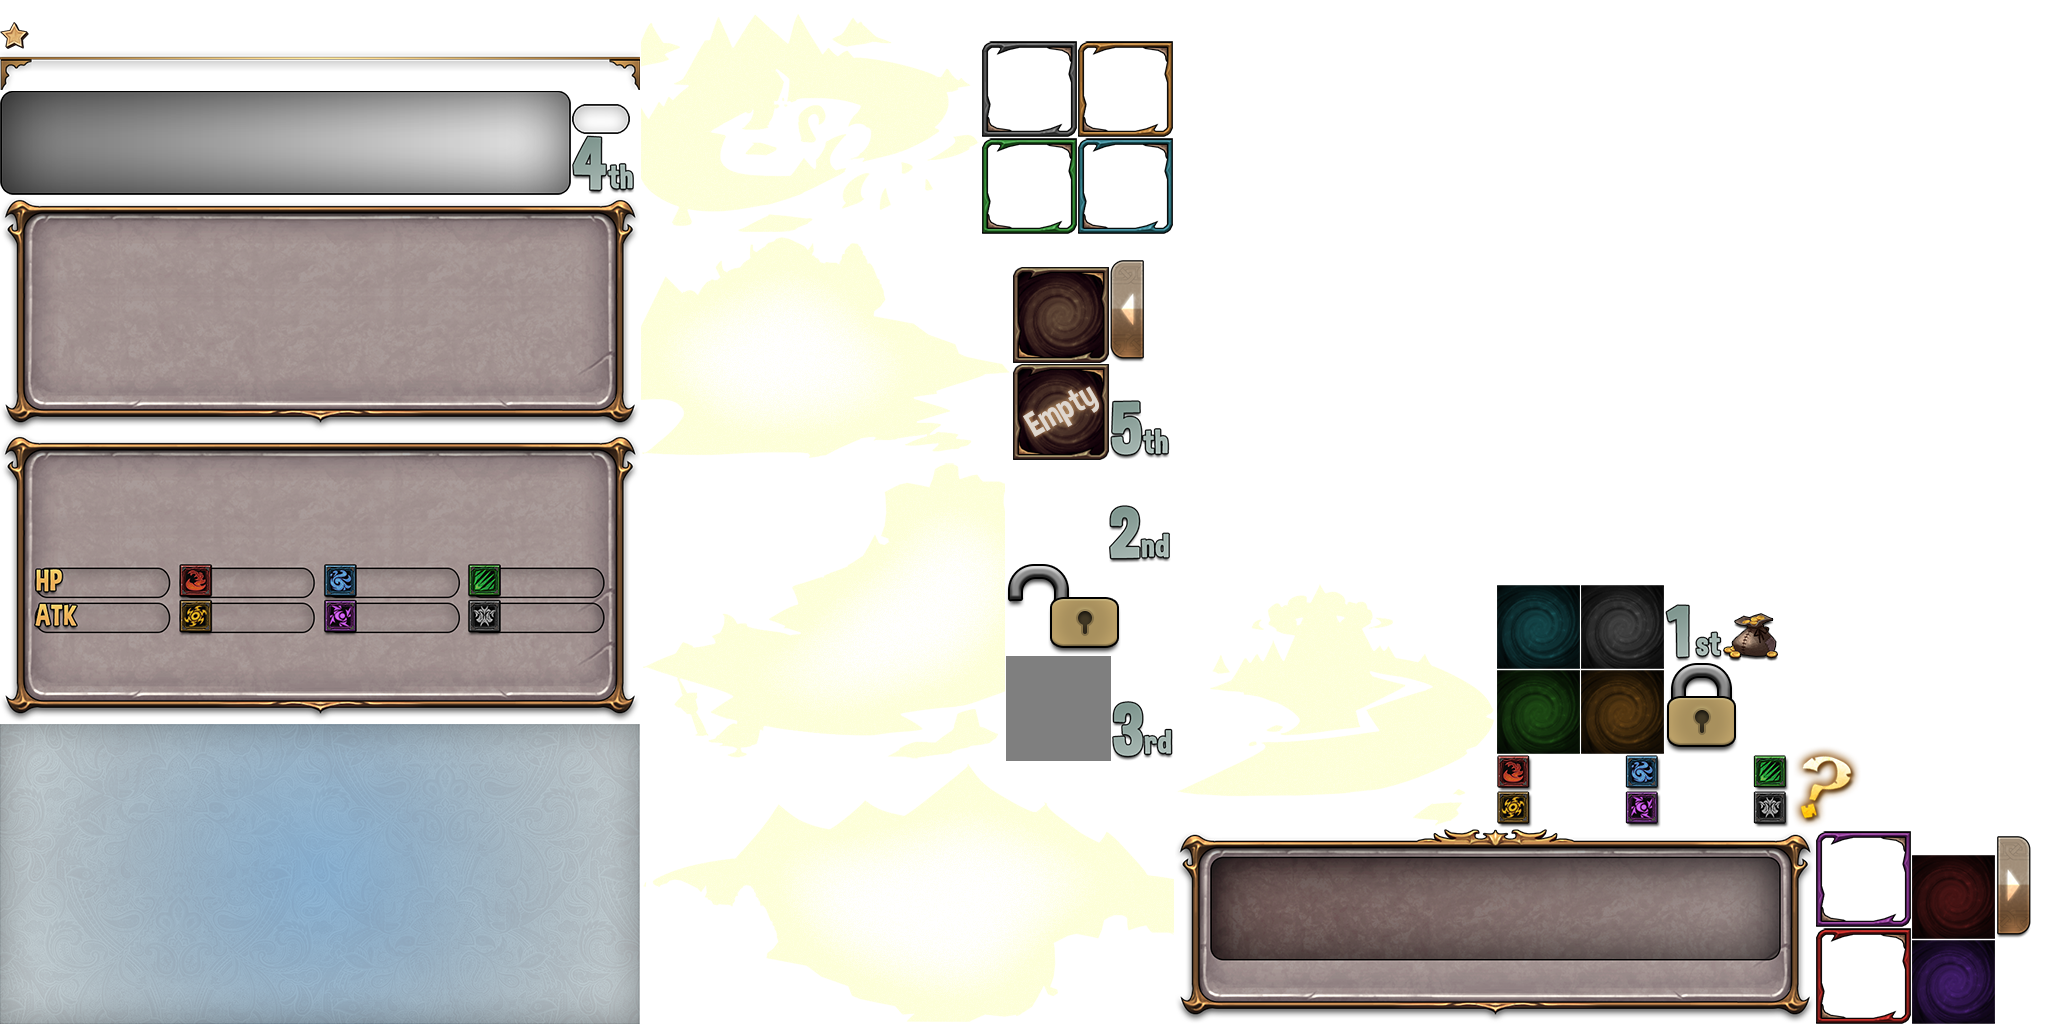
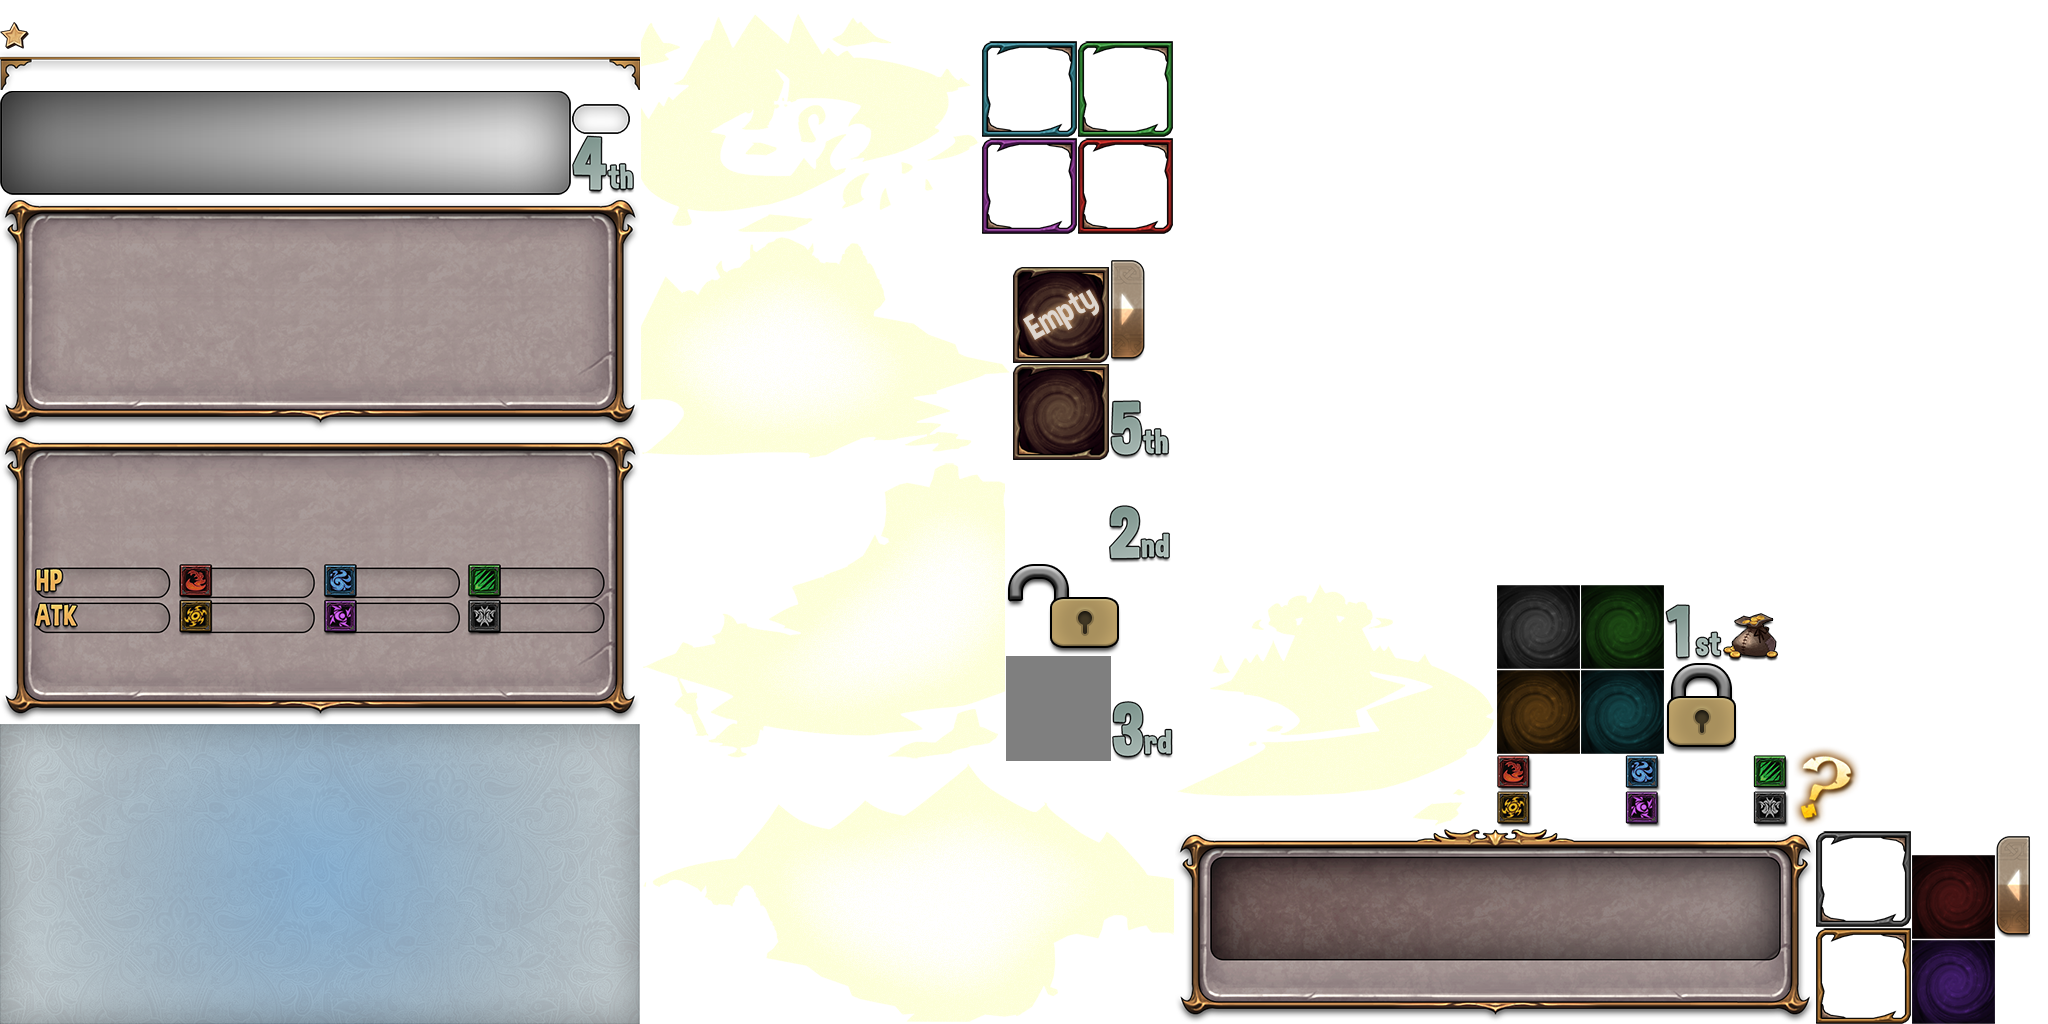
bug fix

diff --git a/Assets/_Scripts/View/UI/UnitView/CatalogUnitItem.cs b/Assets/_Scripts/View/UI/UnitView/CatalogUnitItem.cs
@@ -15,6 +15,9 @@ public class CatalogUnitItem : MyUnitItem {
 	private UISprite translucentMaskSpr;
 	private UILabel idLabel;
 	public UIWidget widget;
+
+	private UISprite type;
+	private UISprite bg;
 	
 	/// <summary>
 	/// The earliest execute
@@ -36,6 +39,8 @@ public class CatalogUnitItem : MyUnitItem {
 		maskSpr = maskSprite;
 		//translucentMaskSpr = transform.FindChild("Sprite_Translucent").GetComponent<UISprite>();
 		idLabel = transform.FindChild("Label_ID").GetComponent<UILabel>();
+		type = transform.FindChild ("Sprite_Type").GetComponent<UISprite> ();
+		bg = transform.FindChild ("Background").GetComponent<UISprite> ();
 	}
 
 	protected override void RefreshState(){
@@ -105,6 +110,8 @@ public class CatalogUnitItem : MyUnitItem {
 					//translucentMaskSpr.enabled = false;
 					UIEventListenerCustom.Get(this.gameObject).LongPress = PressItem;
 					UIEventListenerCustom.Get(this.gameObject).onClick = PressItem;
+					type.spriteName = GetBorderSpriteName();
+					bg.spriteName = GetAvatarBgSpriteName();
 					break;
 				case CatalogState.Meet : 
 //					avatarSprite.atlas = DataCenter.Instance.GetAvatarAtlas(catalogUserUnit.UnitID);
@@ -113,6 +120,8 @@ public class CatalogUnitItem : MyUnitItem {
 					maskSprite.enabled = true;
 					erotemeSpr.enabled = false;
 					//translucentMaskSpr.enabled = true;
+					type.spriteName = "avatar_border_none";
+					bg.spriteName = "avatar_bg_none";
 					break;
 				case CatalogState.UnKnown : 
 					avatarSprite.atlas = null;
@@ -120,6 +129,8 @@ public class CatalogUnitItem : MyUnitItem {
 					erotemeSpr.enabled = true;
 					maskSprite.enabled = false;
 					//translucentMaskSpr.enabled = false;
+					type.spriteName = "avatar_border_none";
+					bg.spriteName = "avatar_bg_none";
 					break;
 				default:
 					avatarSprite.atlas = null;
@@ -142,6 +153,46 @@ public class CatalogUnitItem : MyUnitItem {
 				itemPrefab = ResourceManager.Instance.LoadLocalAsset(sourcePath, null) as GameObject ;
 			}
 			return itemPrefab;
+		}
+	}
+
+	string GetBorderSpriteName () {
+		switch (catalogUserUnit.UnitType) {
+		case 1:
+			return "avatar_border_fire";
+		case 2:
+			return "avatar_border_water";
+		case 3:
+			return "avatar_border_wind";
+		case 4:
+			return "avatar_border_light";
+		case 5:
+			return "avatar_border_dark";
+		case 6:
+			return "avatar_border_none";
+		default:
+			return "avatar_border_none";
+			break;
+		}
+	}
+	
+	string GetAvatarBgSpriteName() {
+		switch (catalogUserUnit.UnitType) {
+		case 1:
+			return "avatar_bg_fire";
+		case 2:
+			return "avatar_bg_water";
+		case 3:
+			return "avatar_bg_wind";
+		case 4:
+			return "avatar_bg_light";
+		case 5:
+			return "avatar_bg_dark";
+		case 6:
+			return "avatar_bg_none";
+		default:
+			return "avatar_bg_none";
+			break;
 		}
 	}
 

diff --git a/Assets/_Scripts/View/UI/Quest/HomeView.cs b/Assets/_Scripts/View/UI/Quest/HomeView.cs
@@ -11,6 +11,8 @@ public class HomeView : UIComponentUnity{
 	private Dictionary< GameObject, VStageItemInfo> stageInfo = new Dictionary<GameObject, VStageItemInfo>();
 	private Dictionary<GameObject, TCityInfo> cityViewInfo = new Dictionary<GameObject, TCityInfo>();
 
+	private UISprite fog;
+
 	public override void Init(UIInsConfig config, IUICallback origin){
 		base.Init(config, origin);
 		InitUI();
@@ -90,6 +92,8 @@ public class HomeView : UIComponentUnity{
 		UIEventListenerCustom.Get (FindChild ("Icons/Reward").gameObject).onClick = ClickReward;
 		UIEventListenerCustom.Get (FindChild ("Icons/Notice").gameObject).onClick = ClickNotice;
 		UIEventListenerCustom.Get (FindChild ("Icons/Purchase").gameObject).onClick = ClickPurchase;
+
+		fog = FindChild("Fog").GetComponent<UISprite>();
 	}
 
 	void ClickReward(GameObject obj){
@@ -262,5 +266,19 @@ public class HomeView : UIComponentUnity{
 		UIManager.Instance.ChangeScene(SceneEnum.Shop);
 	}
 
+	public void FogFly(){
+		fog.GetComponent<TweenPosition> ().enabled = true;
+		fog.GetComponent<TweenPosition> ().ResetToBeginning ();
+		int dir = 0;
+		if (Random.Range (0, 1) > 0.5) {
+			dir = -1;
+		}else{
+			dir = 1;
+		}
+		float y = Random.Range (100f, -150f);
+		fog.GetComponent<TweenPosition> ().from = new Vector3(1024f*dir,y ,0);
+		fog.GetComponent<TweenPosition> ().to = new Vector3(-1024f*dir,y ,0);
+//		fog.transform.localPosition = new Vector3(?
+	}
 }
 
